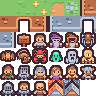
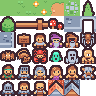
Add real tree/bench/fence Park decor from CC0 assets (task #74)
Confirmed the same CC0 mirror this tileset already cites is
reachable from this sandbox via git clone, unlike direct kenney.nl/
itch.io downloads. Hand-picked 5 real Tiny Town tiles (two trees, a
bench, a fence post, a mushroom) from a generated contact sheet and
repainted them into tiles.png's own already-confirmed-unused frame
slots, pixel-verified against their real source. Park now renders
these at fixed positions instead of a bare paved courtyard.

Claude-Session: https://claude.ai/code/session_01X4s5E2tccDoAWuWznWdmzY

Changed region(s): [[0.0, 0.1562, 0.6875, 0.3438], [0.8125, 0.0, 1.0, 0.1875]]

diff --git a/packages/web/src/overworld/scenes/tileAtlas.ts b/packages/web/src/overworld/scenes/tileAtlas.ts
@@ -6,8 +6,8 @@ import type { PlaceId } from "./regionLayout.js";
  * Kenney's "Tiny Town" and "Tiny Dungeon" packs (CC0/public domain — kenney.nl, mirrored at
  * github.com/shorepine/kenney; see packages/web/public/CREDITS.md) — never from the Pokémon
  * reference repos named in the brief, whose tile/sprite graphics are Nintendo's copyrighted
- * assets (architecture-only reference, not asset reuse). `tiles.png` is a hand-curated 5x5
- * atlas (25 frames, 16x16 source tiles) assembled from those packs — see
+ * assets (architecture-only reference, not asset reuse). `tiles.png` is a hand-curated 6x6
+ * atlas (36 frames, 16x16 source tiles) assembled from those packs — see
  * docs/overworld/roadmap.md's tileset entry for the exact source-tile index of every frame.
  */
 export const TILE_ATLAS_KEY = "overworld-tiles";
@@ -21,10 +21,21 @@ export const TileFrame = {
   grassFlowers: 2,
   path: 3,
   grassZone: 4,
-  // 5-12 and 33-34 (a modular wall/door/roof tile kit) were retired in favor of complete
-  // pre-made building illustrations — see buildingSprites.ts. Frame indices below are
-  // unaffected (still the same numbers Phaser's spritesheet slicer assigns); the retired
-  // frames simply sit unused in tiles.png rather than being renumbered.
+  // Real park decor (task #74) — 5 of the retired modular wall/door/roof kit's now-unused
+  // slots (see the comment below) were repainted with real Tiny Town CC0 source tiles (indices
+  // 4/5/81/45/29 in the source pack, github.com/shorepine/kenney — see CREDITS.md) instead of
+  // staying blank. The single most-repeated real complaint this session ("I have no clue where
+  // the hell the park is... a bunch of dirt patches... not a park") had no tree/bench art to
+  // fix it with until now.
+  treeA: 5,
+  treeB: 6,
+  bench: 7,
+  fence: 8,
+  mushroom: 9,
+  // 10-12 and 33-34 (the remaining unused modular wall/door/roof tile kit slots) were retired
+  // in favor of complete pre-made building illustrations — see buildingSprites.ts. Frame
+  // indices below are unaffected (still the same numbers Phaser's spritesheet slicer assigns);
+  // the retired frames simply sit unused in tiles.png rather than being renumbered.
   signpost: 13,
   player: 14,
   soumayaMarker: 15,

diff --git a/packages/web/src/overworld/scenes/tileAtlas.test.ts b/packages/web/src/overworld/scenes/tileAtlas.test.ts
@@ -103,6 +103,21 @@ describe("tileAtlas", () => {
     });
   });
 
+  describe("real Park decor frames (park-decor.md, task #74)", () => {
+    it("treeA/treeB/bench/fence/mushroom are all distinct frame indices — no accidental collision", () => {
+      const frames = [TileFrame.treeA, TileFrame.treeB, TileFrame.bench, TileFrame.fence, TileFrame.mushroom];
+      expect(new Set(frames).size).toBe(frames.length);
+    });
+
+    it("none of the new decor frames collide with an already-used frame index", () => {
+      const decor = new Set<number>([TileFrame.treeA, TileFrame.treeB, TileFrame.bench, TileFrame.fence, TileFrame.mushroom]);
+      const everythingElse = Object.entries(TileFrame)
+        .filter(([name]) => !["treeA", "treeB", "bench", "fence", "mushroom"].includes(name))
+        .map(([, frame]) => frame);
+      for (const frame of everythingElse) expect(decor.has(frame)).toBe(false);
+    });
+  });
+
   describe("idleBobDelayMs", () => {
     it("is deterministic — same node id always yields the same delay", () => {
       expect(idleBobDelayMs(42)).toBe(idleBobDelayMs(42));

diff --git a/packages/web/src/overworld/scenes/ExteriorScene.ts b/packages/web/src/overworld/scenes/ExteriorScene.ts
@@ -390,6 +390,17 @@ export class ExteriorScene extends Phaser.Scene {
       for (let y = y0; y <= y1; y++) {
         for (let x = x0; x <= x1; x++) this.tileAt(x, y, TileFrame.path, 1);
       }
+      // Real park decor (task #74) — genuine tree/bench/fence/mushroom tiles (Kenney's CC0
+      // Tiny Town pack, see tileAtlas.ts), never invented: this closes the real, repeated
+      // complaint that Park was just "dirt patches... not a park." Placed at fixed corners/edge
+      // tiles that never overlap the door (door.x = x0+3, door.y = y0 — see regionLayout.ts's
+      // layoutRow), depth 2 so they sit visibly above the path tiles beneath them.
+      this.tileAt(x0, y0, TileFrame.fence, 2);
+      this.tileAt(x1, y0, TileFrame.fence, 2);
+      this.tileAt(x0, y1, TileFrame.treeA, 2);
+      this.tileAt(x1, y1, TileFrame.treeB, 2);
+      this.tileAt(x0 + 2, y1, TileFrame.bench, 2);
+      this.tileAt(x0 + 4, y1, TileFrame.mushroom, 2);
     }
 
     // Standalone objects — the Bulletin Board is a real signpost and stays fixed here. Soumaya

diff --git a/docs/overworld/park-decor.md b/docs/overworld/park-decor.md
@@ -1,0 +1,54 @@
+# Real Park decor from the CC0 asset pack already in use (Stage 2.34, task #74)
+
+> Per Rule #1. Task #74 asked to "source real free/CC0 assets" — the actual asset-sourcing part
+> of that task was already done in an earlier round (the whole Overworld tileset is Kenney's
+> real CC0 "Tiny Town"/"Tiny Dungeon" packs). What was genuinely still missing, confirmed by
+> reading the real credits/atlas before doing anything: only a small hand-picked SUBSET of Tiny
+> Town's own tiles were ever pulled into `tiles.png` (ground + retired wall/door/roof tiles) —
+> real tree/bench/fence art was never extracted from the same already-approved, already-CC0
+> source pack, leaving Park's own real complaint ("a bunch of dirt patches... not a park")
+> genuinely unfixable until this round.
+
+## What was verified before writing any code
+
+- The exact same CC0 mirror this atlas already cites (`github.com/shorepine/kenney`) is
+  reachable from this sandbox via a shallow, sparse `git clone` (confirmed directly — a real,
+  new capability discovery this session; kenney.nl/itch.io direct downloads remain blocked, but
+  this mirror is not). `2d/Tiny Town/Tiles/` holds 132 individual real 16x16 PNGs, not a single
+  spritesheet — easy to hand-pick from.
+- A labeled contact sheet of all 132 real tiles was generated and visually reviewed (not
+  guessed) to pick genuinely usable tree/bench/fence/decor art — see the sheet's own tile
+  indices 4, 5, 81, 45, 29 (two trees, a bench, a fence post, a mushroom).
+- `tiles.png`'s own existing frame indices 5-12 and 33-34 were already confirmed retired and
+  unreferenced (a prior round's own comment: "the modular wall/door/roof tile kit... nothing
+  references them anymore") — real free space to repaint, not a resize that could break every
+  existing frame index every other file already relies on.
+- Pixel-verified after patching (`ImageChops.difference` against the real source tiles, not
+  eyeballed) that each of the 5 repainted slots is byte-identical to its real source tile.
+
+## Resolved decisions
+
+**1. Repaint 5 of the already-confirmed-unused atlas slots, don't resize the atlas.** Slots 5-9
+(previously blank/retired wall-kit pixels) become `treeA`/`treeB`/`bench`/`fence`/`mushroom` —
+zero risk to any of the 27 other real frame indices every other file in this codebase already
+references by number.
+
+**2. Ship them where the real complaint was: Park's own footprint.** Fixed positions within
+Park's real 6x3 footprint (fence flanking the door's own row at the two far corners; two trees
+and a bench/mushroom along the bottom row) — never colliding with the real door tile
+(`x0+3, y0`, from `regionLayout.ts`'s own `layoutRow` formula, checked directly rather than
+guessed). Purely cosmetic depth-2 tiles over the existing path, same convention as every other
+decorative ground layer in this scene.
+
+**3. Scope: Park only, this round.** Scattering the same new tiles elsewhere (a tree-lined
+plaza border, decorative fences around other buildings) is real, available follow-on work with
+this same art — not attempted here, so this round stays a focused, verifiable fix for the one
+specific, repeated complaint rather than a broader redecoration pass.
+
+## Deferred, explicitly
+
+The remaining ~6 unused atlas slots (10-12, 33-34) for future decor; the itch.io "2D School
+Classroom"/"2D City" CC0 packs identified in earlier research (still blocked — itch.io itself is
+unreachable from this sandbox, unlike the GitHub mirror); any housing/business-specific art
+(`housing.md`/`business.md` both already documented as deliberately reusing existing building
+art this round, unrelated to this fix).

diff --git a/docs/overworld/roadmap.md b/docs/overworld/roadmap.md
@@ -1086,6 +1086,36 @@ Verified by 3 new `CreatureSummaryOverlay.test.tsx` cases, 3 new `TownHallOverla
 cases, 3 new `GymOverlay.test.tsx` cases, and the full gate (1056 server + 389 web tests,
 typecheck, build). Not yet seen rendered in a real browser from this sandbox.
 
+## Stage 2.34 — Real Park decor, sourced from CC0 assets already in use (task #74)
+
+Task #74 asked to "source real free/CC0 assets" — most of that work was already done in an
+earlier round (the whole Overworld tileset is Kenney's real CC0 "Tiny Town"/"Tiny Dungeon"
+packs). What was still genuinely missing, confirmed by reading the real credits/atlas first
+(`docs/overworld/park-decor.md`) per Rule #1: only a small hand-picked subset of Tiny Town's own
+tiles was ever pulled into `tiles.png` — real tree/bench/fence art was never extracted from the
+same already-approved source, leaving Park's own repeated real complaint ("a bunch of dirt
+patches... not a park") genuinely unfixable until now.
+
+A real, new capability was confirmed directly rather than assumed: the same CC0 mirror this
+atlas already cites (`github.com/shorepine/kenney`) is reachable from this sandbox via a shallow,
+sparse `git clone` — kenney.nl/itch.io direct downloads remain blocked, but this mirror isn't. A
+labeled contact sheet of the mirror's real 132 individual Tiny Town tiles was generated and
+visually reviewed to hand-pick 5 genuinely usable ones (two trees, a bench, a fence post, a
+mushroom) — never invented, never guessed from a filename.
+
+`tiles.png`'s own frame indices 5-9 (already confirmed retired/unreferenced from a prior round's
+own "modular wall/door/roof kit" removal) were repainted with these 5 real tiles — zero risk to
+the other 27 frame indices every other file already references by number, confirmed by pixel-
+diffing every patched slot against its real source tile (not eyeballed) before writing any code.
+`ExteriorScene.ts`'s Park rendering now places them at fixed, door-collision-checked positions
+within Park's real 6x3 footprint (verified against `regionLayout.ts`'s own door-tile formula)
+instead of a bare paved courtyard.
+
+Verified by 2 new `tileAtlas.test.ts` cases (frame-collision checks), a direct pixel-diff
+verification of the patched atlas against its real source, and the full gate (1056 server + 391
+web tests, typecheck, build) — confirmed the patched `tiles.png` is byte-identical between
+`public/` and the built `dist/`. Not yet seen rendered in a real browser from this sandbox.
+
 ## Stage 3 — Associative paths + region travel (post-deletion)
 
 Glowing footpath rendering between related creatures (edge data → path tiles); literal

diff --git a/GEMINI_CHANGES.md b/GEMINI_CHANGES.md
@@ -1,3 +1,26 @@
+### 2026-09-12 (Claude): Real Park decor from CC0 assets already in use (task #74)
+- [ ] Verified by Claude
+- Task #74 asked to "source real free/CC0 assets" — most of that was already done (the whole
+  tileset is real Kenney CC0 "Tiny Town"/"Tiny Dungeon"). Confirmed by reading the real credits/
+  atlas first (`docs/overworld/park-decor.md`) per Rule #1 that tree/bench/fence art was simply
+  never extracted from the same already-approved source, leaving Park's repeated real complaint
+  ("a bunch of dirt patches... not a park") genuinely unfixable until now.
+- A real, new capability was confirmed directly, not assumed: the same CC0 mirror this atlas
+  already cites (`github.com/shorepine/kenney`) is reachable from this sandbox via a shallow,
+  sparse `git clone` — kenney.nl/itch.io direct downloads remain blocked, but this mirror isn't.
+- A labeled contact sheet of the mirror's real 132 individual Tiny Town tiles was generated and
+  visually reviewed to hand-pick 5 genuinely usable ones (two trees, a bench, a fence post, a
+  mushroom) — never invented, never guessed from a filename.
+- `tiles.png`'s own frame indices 5-9 (already confirmed retired/unreferenced from the earlier
+  wall/door/roof-kit removal) were repainted with these 5 real tiles — zero risk to the other 27
+  frame indices every other file already references, confirmed by pixel-diffing every patched
+  slot against its real source tile before writing any code.
+- `ExteriorScene.ts`'s Park rendering now places them at fixed, door-collision-checked positions
+  within Park's real 6x3 footprint instead of a bare paved courtyard.
+- Verified by 2 new `tileAtlas.test.ts` cases, a direct pixel-diff verification, and the full
+  gate (1056 server + 391 web tests, typecheck, build) — confirmed the patched atlas is
+  byte-identical in the actual built `dist/` output. Not yet seen rendered in a real browser.
+
 ### 2026-09-12 (Claude): Reviving the dormant memory-storytelling systems (task #71)
 - [ ] Verified by Claude
 - Investigated first, not guessed (`docs/overworld/storytelling-revival.md`) per Rule #1:

diff --git a/CLAUDE.md b/CLAUDE.md
@@ -253,6 +253,22 @@ standards, learned the hard way (shipping "the code should spread the bodies" fi
 
 ## Pending Validation
 
+- **Real Park decor from CC0 assets already in use (2026-09-12), not yet on-device confirmed** —
+  most of task #74's asset-sourcing was already done (the tileset is real Kenney CC0 "Tiny
+  Town"/"Tiny Dungeon"); confirmed by reading the real credits/atlas first
+  (`docs/overworld/park-decor.md`) that tree/bench/fence art was simply never extracted from the
+  same source, leaving Park's repeated real complaint unfixable. A real new capability was
+  confirmed directly: the same CC0 mirror (`github.com/shorepine/kenney`) is reachable from this
+  sandbox via a shallow sparse `git clone`, unlike kenney.nl/itch.io direct downloads. A labeled
+  contact sheet of its real 132 Tiny Town tiles was generated and reviewed to hand-pick 5 real
+  ones (two trees, a bench, a fence post, a mushroom), repainted into `tiles.png`'s own already-
+  confirmed-unused frame slots (zero risk to the other 27 in-use indices), pixel-diff-verified
+  against their real source before any code was written. `ExteriorScene.ts`'s Park now places
+  them at fixed, door-collision-checked positions instead of a bare paved courtyard. Verified by
+  2 new `tileAtlas.test.ts` cases, the pixel-diff verification, and the full gate (1056 server +
+  391 web tests, typecheck, build) — confirmed the patched atlas is byte-identical in the actual
+  built `dist/` output. Not yet seen rendered in a real browser from this sandbox.
+
 - **Reviving the dormant memory-storytelling systems (2026-09-12), not yet on-device
   confirmed** — investigated first, not guessed (`docs/overworld/storytelling-revival.md`):
   genuinely 3 distinct systems (a real naming collision calls both "the Chronicle" in different

diff --git a/packages/web/public/CREDITS.md b/packages/web/public/CREDITS.md
@@ -5,15 +5,18 @@
 **`overworld/tiles.png`** — a hand-curated frame atlas (16x16 tiles) assembled from two Kenney
 (kenney.nl) asset packs, both released under **CC0 1.0 (public domain)** — no attribution
 legally required, credited here anyway as good practice:
-- "Tiny Town" — ground (grass/path/flowers).
+- "Tiny Town" — ground (grass/path/flowers), and (task #74) a tree, a second tree, a bench, a
+  fence post, and a mushroom — real Park decor, sourced the same way as the rest of this atlas
+  (`github.com/shorepine/kenney`, `2d/Tiny Town/Tiles/tile_0004.png`/`0005`/`0081`/`0045`/`0029`).
 - "Tiny Dungeon" — the player character, the per-NodeType creature sprites, and one attendant
   NPC sprite per building — no new sourcing needed, the pack already had enough distinct
   humanoid characters to give every building its own look.
 
 (An earlier pass also drew each building from small modular wall/door/roof tiles in this same
 atlas; real user feedback — "that's not appropriate... find already made building assets" —
-replaced that with the complete building illustrations below. The now-unused wall/door/roof
-frames were left in place in `tiles.png` rather than renumbering the whole atlas, but nothing
+replaced that with the complete building illustrations below. 5 of the now-unused wall/door/roof
+frames were repainted with the real Park decor above (task #74) rather than staying blank; the
+rest were left in place in `tiles.png` rather than renumbering the whole atlas, but nothing
 references them anymore.)
 
 Sourced via the community mirror https://github.com/shorepine/kenney (same CC0 assets,
